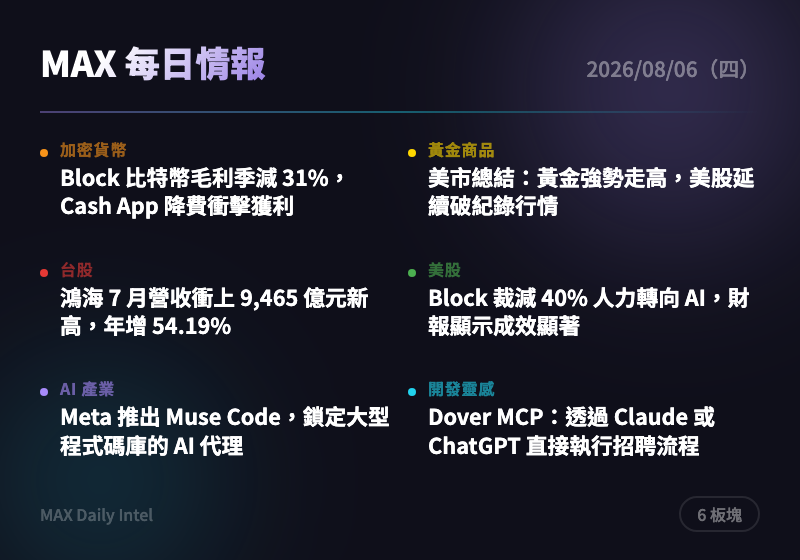
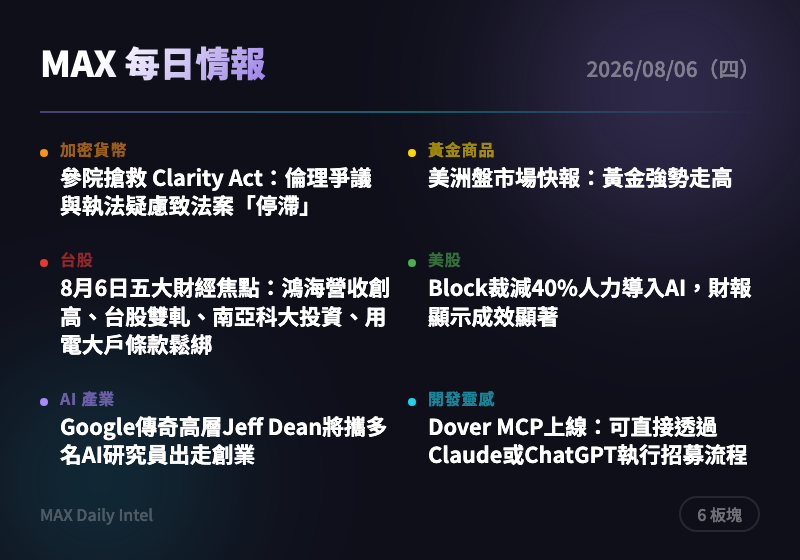
intel: 2026-08-06 每日情報自動生成

diff --git a/docs/2026-08-06.html b/docs/2026-08-06.html
@@ -318,15 +318,15 @@
     </div>
     <div class="news-card">
       <div class="source">The Block</div>
-      <h3><a href="https://www.theblock.co/post/410923/blocks-bitcoin-gross-profit-falls-31-cash-app-fee-cuts-shares-reverse-initial-gains?utm_source=rss&utm_medium=rss" target="_blank" rel="noopener">Block 比特幣毛利季減 31%，Cash App 降費衝擊獲利</a></h3>
-      <div class="summary">Block（原 Square）因 Cash App 手續費調降導致比特幣業務毛利年減 31%，公布財報後股價一度反轉。儘管如此，公司仍上調 2026 年整體毛利預測至 125.1 億美元，顯示核心業務韌性仍在。投資人可留意 Block 是否能靠 AI 裁員降本（詳見美股板塊）抵銷比特幣業務的獲利壓力。</div>
-      <div class="tags"><span class="tag">比特幣</span><span class="tag">財報</span><span class="tag">支付產業</span></div>
+      <h3><a href="https://www.theblock.co/post/410940/standstill-senate-races-salvage-clarity-act-before-august-recess-ethics-fight-law-enforcement-concerns-loom?utm_source=rss&utm_medium=rss" target="_blank" rel="noopener">參院搶救 Clarity Act：倫理爭議與執法疑慮致法案「停滯」</a></h3>
+      <div class="summary">美國參議院程序性投票懸而未決，議員們正搶在8月休會前解決加密貨幣市場結構法案的爭議點。若法案未能在休會前過關，審議恐延至2026選舉季甚至更久，將延長加密產業監管不確定性。建議持續關注國會動態，休會前若無突破應下修短期政策樂觀預期。</div>
+      <div class="tags"><span class="tag">監管</span><span class="tag">美國國會</span><span class="tag">加密貨幣立法</span></div>
     </div>
     <div class="news-card">
-      <div class="source">CoinTelegraph</div>
-      <h3><a href="https://cointelegraph.com/news/senator-lummis-clarity-vote-movement-calendar?utm_source=rss_feed&utm_medium=rss&utm_campaign=rss_partner_inbound" target="_blank" rel="noopener">Lummis 議員力拚國會休會前通過 CLARITY 法案</a></h3>
-      <div class="summary">美國參議院正搶在 8 月休會前為加密貨幣市場結構法案（CLARITY Act）舉行程序性表決，但倫理爭議與執法疑慮讓進度陷入僵局。若本次錯過表決，法案恐拖到 2026 選舉季後才能再議，將延長加密產業監管不確定性。建議持續關注國會動態，法案通過與否將直接影響美國合規交易所與穩定幣業者的中期布局。</div>
-      <div class="tags"><span class="tag">監管政策</span><span class="tag">美國國會</span><span class="tag">穩定幣</span></div>
+      <div class="source">The Block</div>
+      <h3><a href="https://www.theblock.co/post/410923/blocks-bitcoin-gross-profit-falls-31-cash-app-fee-cuts-shares-reverse-initial-gains?utm_source=rss&utm_medium=rss" target="_blank" rel="noopener">Block比特幣毛利年減31%，Cash App降費後股價由漲轉跌</a></h3>
+      <div class="summary">Block因Cash App降低手續費導致比特幣業務毛利大跌31%，但公司同步調高2026年整體毛利預測至125.1億美元，反映AI裁員後營運效率提升抵銷部分衝擊。股價在財報公布後從初期上漲轉為下跌，顯示市場對比特幣業務疲弱較為敏感。建議關注Block後續季度Cash App貨幣化策略調整。</div>
+      <div class="tags"><span class="tag">Block</span><span class="tag">比特幣</span><span class="tag">財報</span></div>
     </div>
   </section>
 
@@ -338,15 +338,15 @@
     </div>
     <div class="news-card">
       <div class="source">ForexLive</div>
-      <h3><a href="https://investinglive.com/news/investinglive-americas-market-news-wrap-gold-storms-higher/" target="_blank" rel="noopener">美市總結：黃金強勢走高，美股延續破紀錄行情</a></h3>
-      <div class="summary">美國 7 月 ISM 服務業指數 54.1 略低於預期，但 ADP 就業僅增 4.4 萬人遠遜預期 7 萬人，就業疲軟疑慮升溫，資金轉向避險黃金推動金價走高。同時美股延續破紀錄漲勢，顯示市場在「疲軟就業＋強勁服務業」的混合訊號下呈現risk-on與避險並存的矛盾格局。建議關注就業數據疲弱是否會強化降息預期，進一步支撐金價。</div>
-      <div class="tags"><span class="tag">黃金</span><span class="tag">就業數據</span><span class="tag">聯準會</span></div>
+      <h3><a href="https://investinglive.com/news/investinglive-americas-market-news-wrap-gold-storms-higher/" target="_blank" rel="noopener">美洲盤市場快報：黃金強勢走高</a></h3>
+      <div class="summary">美股盤中黃金價格顯著走高，同時公布的服務業數據好壞參半（ISM未達預期、ADP就業大幅遜於預期，但PMI創8個月新高）。就業數據疲弱強化市場對聯準會降息的預期，推升黃金避險買盤。建議追蹤後續就業數據以確認降息路徑，逢回可留意黃金逢低布局機會。</div>
+      <div class="tags"><span class="tag">黃金</span><span class="tag">聯準會</span><span class="tag">美國經濟數據</span></div>
     </div>
     <div class="news-card">
       <div class="source">ForexLive</div>
-      <h3><a href="https://investinglive.com/news/us-july-adp-national-employment-k-vs-70k-expected/" target="_blank" rel="noopener">美國 7 月 ADP 就業僅增 4.4 萬人，遠低於預期 7 萬人</a></h3>
-      <div class="summary">美國民間就業增長大幅不如預期，前值亦從 9.8 萬下修至 9.5 萬，顯示就業市場降溫速度快於市場估計，其中服務業與大型企業就業增長明顯放緩。就業數據疲弱強化市場對聯準會降息的預期，是推動金價與美股同步走高的關鍵因素。建議追蹤即將公布的非農就業報告以確認就業降溫趨勢是否延續。</div>
-      <div class="tags"><span class="tag">就業數據</span><span class="tag">美國經濟</span><span class="tag">聯準會</span></div>
+      <h3><a href="https://investinglive.com/news/us-july-adp-national-employment-k-vs-70k-expected/" target="_blank" rel="noopener">美國7月ADP就業僅增4.4萬人，遠低於預期7萬人</a></h3>
+      <div class="summary">美國7月ADP民間就業新增僅4.4萬人，大幅不及市場預期的7萬人，前值亦下修至9.5萬人，就業成長明顯降溫。就業市場走弱是聯準會考慮降息的重要指標，可能加速市場對9月降息的押注，同時利多黃金及其他避險資產。建議留意即將公布的非農數據以確認就業趨勢是否持續轉弱。</div>
+      <div class="tags"><span class="tag">美國就業</span><span class="tag">聯準會</span><span class="tag">總經數據</span></div>
     </div>
   </section>
 
@@ -358,15 +358,15 @@
     </div>
     <div class="news-card">
       <div class="source">經濟日報</div>
-      <h3><a href="https://money.udn.com/money/story/5607/9673633" target="_blank" rel="noopener">鴻海 7 月營收衝上 9,465 億元新高，年增 54.19%</a></h3>
-      <div class="summary">鴻海公布 7 月合併營收首度突破 9,000 億元大關、達 9,465.1 億元，年增幅度高達 54.19%，本月更有望叩關兆元大關，反映 AI 伺服器與相關供應鏈需求持續強勁。此外南亞科加碼 DRAM 資本支出、SpaceX 全面導入輝達晶片亦帶動台積電、鴻海、緯創等供應鏈受惠。建議關注鴻海能否延續動能站上兆元月營收里程碑，作為觀察 AI 供應鏈景氣的重要指標。</div>
-      <div class="tags"><span class="tag">鴻海</span><span class="tag">AI供應鏈</span><span class="tag">營收</span></div>
+      <h3><a href="https://money.udn.com/money/story/5607/9673633" target="_blank" rel="noopener">8月6日五大財經焦點：鴻海營收創高、台股雙軋、南亞科大投資、用電大戶條款鬆綁</a></h3>
+      <div class="summary">鴻海7月合併營收首度衝上9,465億元新高、年增54.19%，並有望於本月挑戰兆元大關；南亞科同步宣布上調資本支出至697億元衝刺先進製程。台股同時受惠權值股領軍出現雙軋行情，加上立法院初審通過用電大戶條款2.0放寬適用，多項利多同步發酵有助強化市場信心。建議關注鴻海、南亞科等權值股後續營運動能是否延續。</div>
+      <div class="tags"><span class="tag">鴻海</span><span class="tag">南亞科</span><span class="tag">台股</span><span class="tag">能源政策</span></div>
     </div>
     <div class="news-card">
       <div class="source">經濟日報</div>
-      <h3><a href="https://money.udn.com/money/story/5607/9673499" target="_blank" rel="noopener">台股「雙軋行情」蓄勢上攻，四天大漲 4,678 點</a></h3>
-      <div class="summary">台股受惠美股大漲與法說會佳音，在台積電等權值股領軍、外資回補買超帶動下出現軋空單與軋空手的雙軋行情，昨日大漲 1,250 點收 44,611 點，四個交易日累計大漲 4,678 點，成交額擴大至 1.2 兆元。短線可望挑戰 45K 至 46K 關卡，但漲勢急遽也意味短線震盪風險升高。建議追高者留意量能是否能持續支撐，套牢族可評估分批減碼解套。</div>
-      <div class="tags"><span class="tag">台股</span><span class="tag">軋空行情</span><span class="tag">外資動向</span></div>
+      <h3><a href="https://money.udn.com/money/story/5607/9673499" target="_blank" rel="noopener">台股「雙軋行情」蓄勢上攻，四天大漲4,678點，短線震盪恐擴大</a></h3>
+      <div class="summary">受惠美股大漲及上市櫃公司財報法說釋出佳音，台股在台積電等權值股領軍、外資回補買超帶動下出現軋空單與軋空手的雙軋行情，昨日大漲1,250點收44,611點，四個交易日累計大漲4,678點，成交量放大至1.2兆元。短線可望挑戰45K至46K關卡，但漲勢過急須留意獲利了結賣壓。建議追高者控制部位，逢震盪拉回可分批布局權值股。</div>
+      <div class="tags"><span class="tag">台股</span><span class="tag">台積電</span><span class="tag">外資買超</span></div>
     </div>
   </section>
 
@@ -378,15 +378,15 @@
     </div>
     <div class="news-card">
       <div class="source">MarketWatch</div>
-      <h3><a href="https://www.marketwatch.com/story/block-slashed-40-of-its-workforce-for-ai-and-earnings-suggest-thats-paying-off-852b7c54?mod=mw_rss_topstories" target="_blank" rel="noopener">Block 裁減 40% 人力轉向 AI，財報顯示成效顯著</a></h3>
-      <div class="summary">Block 裁減 40% 員工並將資源轉向 AI 應用，公司高層表示此舉讓產品開發速度大幅提升、品質更佳，財報表現優於市場預期。此案例顯示企業以 AI 取代人力進行組織精簡的趨勢正在加速，且已開始反映在實際獲利數字上。建議關注更多科技公司是否跟進類似的 AI 驅動裁員與效率提升策略。</div>
-      <div class="tags"><span class="tag">Block</span><span class="tag">AI轉型</span><span class="tag">企業裁員</span></div>
+      <h3><a href="https://www.marketwatch.com/story/block-slashed-40-of-its-workforce-for-ai-and-earnings-suggest-thats-paying-off-852b7c54?mod=mw_rss_topstories" target="_blank" rel="noopener">Block裁減40%人力導入AI，財報顯示成效顯著</a></h3>
+      <div class="summary">Block裁撤四成員工並以AI取代部分工作，公司財報優於市場預期，高層表示藉此能更快、更高品質地推出產品。此案例顯示企業以AI大幅精簡人力同時提升營運效率的可行性，可能成為其他科技公司仿效的範本。建議關注更多企業財報中AI導入對人力結構與獲利的實際影響。</div>
+      <div class="tags"><span class="tag">Block</span><span class="tag">AI裁員</span><span class="tag">財報優於預期</span></div>
     </div>
     <div class="news-card">
       <div class="source">MarketWatch</div>
-      <h3><a href="https://www.marketwatch.com/story/spacexs-stock-falls-as-wall-street-gets-spooked-by-the-extent-of-ai-spending-9ce9ddb8?mod=mw_rss_topstories" target="_blank" rel="noopener">SpaceX 股價重挫，華爾街憂心 AI 支出規模過大</a></h3>
-      <div class="summary">摩根士丹利預估 SpaceX 今年資本支出將高達 640 億美元，龐大的 AI 投資規模令華爾街投資人感到不安，股價因此下跌，並連帶拖累 AT&T、Verizon、T-Mobile 等電信股（因 SpaceX 揚言以衛星寬頻取代傳統電信網路投資）。同日 Nvidia 股價卻因馬斯克表態 SpaceX 將全面採用其晶片而受惠走高。建議關注 SpaceX 解禁股份釋出與 AI 資本支出對其現金流的壓力是否持續發酵。</div>
-      <div class="tags"><span class="tag">SpaceX</span><span class="tag">AI支出</span><span class="tag">美股</span></div>
+      <h3><a href="https://www.marketwatch.com/story/spacexs-stock-falls-as-wall-street-gets-spooked-by-the-extent-of-ai-spending-9ce9ddb8?mod=mw_rss_topstories" target="_blank" rel="noopener">SpaceX財報後股價重挫，華爾街對其龐大AI支出感到不安</a></h3>
+      <div class="summary">SpaceX公布首份財報後股價顯著下跌，摩根士丹利預估其今年資本支出將高達640億美元，市場擔憂其AI相關投資規模過於龐大恐侵蝕獲利。此事件也連帶拖累AT&T、Verizon、T-Mobile等電信股，因SpaceX表態無需大量網路投資即可建置無線能力，威脅傳統電信業者地位。建議觀察SpaceX後續資本支出計畫細節及對相關供應鏈（含輝達）的影響。</div>
+      <div class="tags"><span class="tag">SpaceX</span><span class="tag">AI資本支出</span><span class="tag">電信股</span></div>
     </div>
   </section>
 
@@ -398,15 +398,15 @@
     </div>
     <div class="news-card">
       <div class="source">TechCrunch AI</div>
-      <h3><a href="https://techcrunch.com/2026/08/05/meta-launches-muse-code-an-ai-agent-for-large-code-bases/" target="_blank" rel="noopener">Meta 推出 Muse Code，鎖定大型程式碼庫的 AI 代理</a></h3>
-      <div class="summary">Meta 擴大其 AI 程式開發產品線，推出新一代 AI 代理 Muse Code，號稱能處理複雜軟體中的複雜任務，直接與 Anthropic、OpenAI 等業者的程式碼助理工具正面競爭。此舉顯示各大科技巨頭在 AI 程式開發代理領域的軍備競賽持續升溫。建議開發者留意 Muse Code 實際處理大型專案的能力表現，評估是否值得納入團隊工作流程。</div>
-      <div class="tags"><span class="tag">Meta</span><span class="tag">AI程式開發</span><span class="tag">科技巨頭</span></div>
+      <h3><a href="https://techcrunch.com/2026/08/05/jeff-dean-and-other-top-ai-researchers-are-leaving-google-to-launch-their-own-startup/" target="_blank" rel="noopener">Google傳奇高層Jeff Dean將攜多名AI研究員出走創業</a></h3>
+      <div class="summary">Google首席科學家暨資深高層Jeff Dean即將離職，與多名同樣出走的Google高層共同創立新公司，目標運用AI推動科學發現進程。此舉恰逢Google公布DeepMind領導層重組，顯示公司AI核心人才正面臨流失壓力。建議關注這批頂尖研究員的新創方向是否會對現有AI科研版圖產生實質影響。</div>
+      <div class="tags"><span class="tag">Google</span><span class="tag">人才流失</span><span class="tag">AI新創</span></div>
     </div>
     <div class="news-card">
-      <div class="source">TechCrunch AI</div>
-      <h3><a href="https://techcrunch.com/2026/08/05/jeff-dean-and-other-top-ai-researchers-are-leaving-google-to-launch-their-own-startup/" target="_blank" rel="noopener">Google 高層大洗牌，AI 傳奇人物 Jeff Dean 出走創業</a></h3>
-      <div class="summary">Google 首席科學家、公司元老級人物 Jeff Dean 將率多名離職高層共同創立新公司，目標是運用 AI 推動科學發現進程，同時 Google DeepMind 領導人 Demis Hassabis 也轉任 DeepMind 董事長暨 Alphabet 首席科學家。此波高層異動反映 Google 在 AI 人才保留與內部組織架構上面臨重大挑戰，消息傳出後 Alphabet 股價應聲下跌。建議關注新創公司後續動向及其對 Google AI 研發實力的潛在衝擊。</div>
-      <div class="tags"><span class="tag">Google</span><span class="tag">人才流失</span><span class="tag">AI研究</span></div>
+      <div class="source">The Verge AI</div>
+      <h3><a href="https://www.theverge.com/tech/975677/google-deepmind-ai-demis-hassabis-shakeup" target="_blank" rel="noopener">Google AI高層大洗牌：Hassabis轉任DeepMind董事長暨Alphabet首席科學家</a></h3>
+      <div class="summary">Google宣布重大AI領導層調整，DeepMind負責人Demis Hassabis將轉任DeepMind董事長並兼任Alphabet首席科學家，同時繼續領導專注AI藥物研發的Isomorphic Labs。此人事異動顯示Google正重新整合AI研發資源與策略方向，可能影響其在生成式AI與科學研究競賽中的布局。建議留意後續接任DeepMind執行職務的人選及其對Gemini等產品線的影響。</div>
+      <div class="tags"><span class="tag">Google</span><span class="tag">DeepMind</span><span class="tag">AI人事</span></div>
     </div>
   </section>
 
@@ -418,15 +418,15 @@
     </div>
     <div class="news-card">
       <div class="source">Product Hunt</div>
-      <h3><a href="https://www.producthunt.com/products/dover" target="_blank" rel="noopener">Dover MCP：透過 Claude 或 ChatGPT 直接執行招聘流程</a></h3>
-      <div class="summary">新產品 Dover MCP 讓企業能直接透過 Claude 或 ChatGPT 等 AI 助理介面管理整個招聘流程，是 MCP（Model Context Protocol）生態系持續擴張至企業垂直應用的又一案例。此類工具顯示 AI 代理正逐步滲透至傳統 HR 工作流程，降低招聘作業的操作門檻。可作為觀察 MCP 生態系商業化落地速度的參考指標。</div>
-      <div class="tags"><span class="tag">MCP</span><span class="tag">AI招聘</span><span class="tag">生產力工具</span></div>
+      <h3><a href="https://www.producthunt.com/products/dover" target="_blank" rel="noopener">Dover MCP上線：可直接透過Claude或ChatGPT執行招募流程</a></h3>
+      <div class="summary">新產品Dover MCP讓使用者能直接在Claude或ChatGPT介面中管理整個招募流程，展現MCP（Model Context Protocol）生態系持續擴展至企業人資領域的趨勢。此類工具反映AI助理正從單純問答走向深度整合企業實際工作流程的階段。建議關注更多垂直領域MCP工具的推出，評估其對現有SaaS產品的替代潛力。</div>
+      <div class="tags"><span class="tag">MCP</span><span class="tag">AI工具</span><span class="tag">人資科技</span></div>
     </div>
     <div class="news-card">
       <div class="source">Hacker News Best</div>
-      <h3><a href="https://www.africanews.com/2026/08/04/ai-fuels-more-than-half-of-cybercrime-in-africa-as-digital-scams-surge-interpol/" target="_blank" rel="noopener">AI 助長非洲逾半數網路犯罪，詐騙案件激增：Interpol</a></h3>
-      <div class="summary">國際刑警組織（Interpol）最新報告指出，AI 技術已成為非洲地區網路犯罪與詐騙案件激增的主要推手，助長逾半數的相關犯罪活動。此報告凸顯 AI 生成內容與自動化工具被濫用於詐騙的風險正在全球擴散，尤其在監管與防護能力較弱的地區更為明顯。建議關注 AI 詐騙防禦工具與跨國執法合作的發展，作為評估相關資安投資機會的參考。</div>
-      <div class="tags"><span class="tag">AI犯罪</span><span class="tag">資安</span><span class="tag">國際刑警組織</span></div>
+      <h3><a href="https://www.africanews.com/2026/08/04/ai-fuels-more-than-half-of-cybercrime-in-africa-as-digital-scams-surge-interpol/" target="_blank" rel="noopener">國際刑警組織：AI驅動非洲逾半數網路犯罪，詐騙案暴增</a></h3>
+      <div class="summary">國際刑警組織（Interpol）報告指出，AI技術已成為非洲網路犯罪的主要驅動力，助長逾半數的網路詐騙案件，詐騙規模持續攀升。此報告凸顯生成式AI被濫用於詐騙、身分冒充等犯罪活動的全球性風險正加速擴散至新興市場。建議相關企業與監管單位加強AI濫用偵測與跨境執法合作。</div>
+      <div class="tags"><span class="tag">AI濫用</span><span class="tag">網路犯罪</span><span class="tag">國際刑警組織</span></div>
     </div>
   </section>
 

diff --git a/docs/cards/2026-08-06-card.html b/docs/cards/2026-08-06-card.html
@@ -23,11 +23,11 @@ body{width:400px;height:280px;font-family:'Noto Sans TC',-apple-system,sans-seri
 <div class="content">
 <div class="top-row"><span class="title">MAX 每日情報</span><span class="date">2026/08/06（四）</span></div>
 <div class="divider"></div>
-<div class="grid"><div class="cell"><div class="dot" style="background:#f7931a"></div><div><div class="label" style="color:#f7931a">加密貨幣</div><div class="headline">Block 比特幣毛利季減 31%，Cash App 降費衝擊獲利</div></div></div>
-<div class="cell"><div class="dot" style="background:#ffd700"></div><div><div class="label" style="color:#ffd700">黃金商品</div><div class="headline">美市總結：黃金強勢走高，美股延續破紀錄行情</div></div></div>
-<div class="cell"><div class="dot" style="background:#e53935"></div><div><div class="label" style="color:#e53935">台股</div><div class="headline">鴻海 7 月營收衝上 9,465 億元新高，年增 54.19%</div></div></div>
-<div class="cell"><div class="dot" style="background:#4caf50"></div><div><div class="label" style="color:#4caf50">美股</div><div class="headline">Block 裁減 40% 人力轉向 AI，財報顯示成效顯著</div></div></div>
-<div class="cell"><div class="dot" style="background:#a78bfa"></div><div><div class="label" style="color:#a78bfa">AI 產業</div><div class="headline">Meta 推出 Muse Code，鎖定大型程式碼庫的 AI 代理</div></div></div>
-<div class="cell"><div class="dot" style="background:#22d3ee"></div><div><div class="label" style="color:#22d3ee">開發靈感</div><div class="headline">Dover MCP：透過 Claude 或 ChatGPT 直接執行招聘流程</div></div></div></div>
+<div class="grid"><div class="cell"><div class="dot" style="background:#f7931a"></div><div><div class="label" style="color:#f7931a">加密貨幣</div><div class="headline">參院搶救 Clarity Act：倫理爭議與執法疑慮致法案「停滯」</div></div></div>
+<div class="cell"><div class="dot" style="background:#ffd700"></div><div><div class="label" style="color:#ffd700">黃金商品</div><div class="headline">美洲盤市場快報：黃金強勢走高</div></div></div>
+<div class="cell"><div class="dot" style="background:#e53935"></div><div><div class="label" style="color:#e53935">台股</div><div class="headline">8月6日五大財經焦點：鴻海營收創高、台股雙軋、南亞科大投資、用電大戶條款鬆綁</div></div></div>
+<div class="cell"><div class="dot" style="background:#4caf50"></div><div><div class="label" style="color:#4caf50">美股</div><div class="headline">Block裁減40%人力導入AI，財報顯示成效顯著</div></div></div>
+<div class="cell"><div class="dot" style="background:#a78bfa"></div><div><div class="label" style="color:#a78bfa">AI 產業</div><div class="headline">Google傳奇高層Jeff Dean將攜多名AI研究員出走創業</div></div></div>
+<div class="cell"><div class="dot" style="background:#22d3ee"></div><div><div class="label" style="color:#22d3ee">開發靈感</div><div class="headline">Dover MCP上線：可直接透過Claude或ChatGPT執行招募流程</div></div></div></div>
 <div class="bottom-row"><span class="url">MAX Daily Intel</span><span class="badge">6 板塊</span></div>
 </div></body></html>
